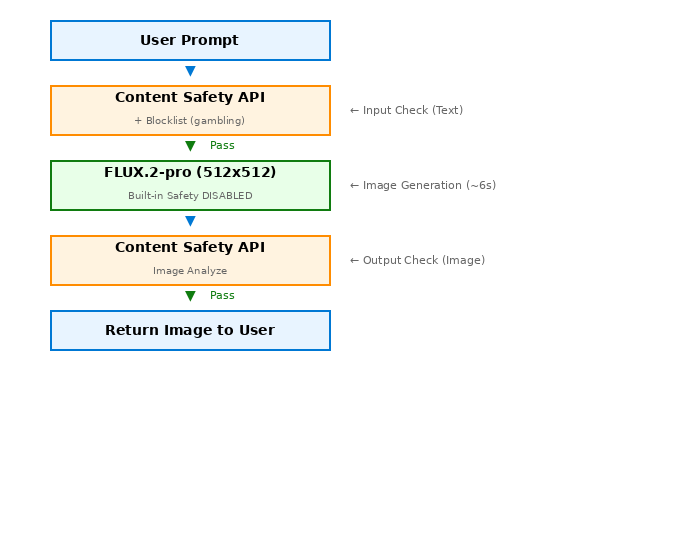
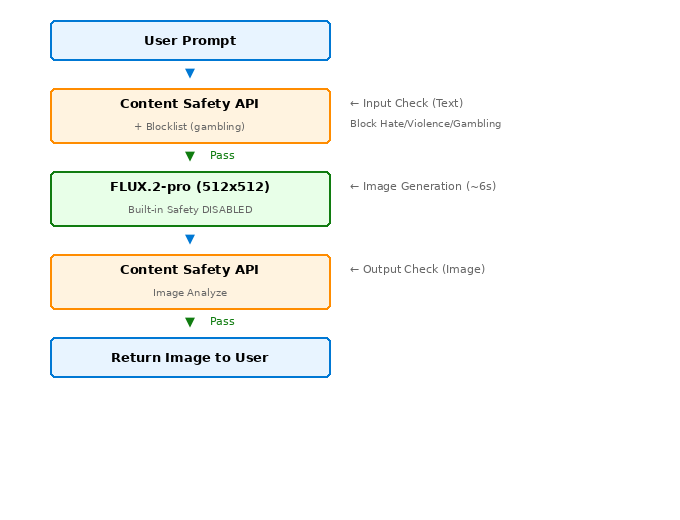
Commit

Changed region(s): [[0.0618, 0.0308, 0.7412, 0.7385], [0.525, 0.3077, 0.7412, 0.3692]]

diff --git a/Agents/Content-Safety-with-Flux-Image-Generation/README.md b/Agents/Content-Safety-with-Flux-Image-Generation/README.md
@@ -12,57 +12,7 @@ This project demonstrates how to:
 
 ### Architecture
 
-<table style="margin: 20px 0; border-collapse: collapse;">
-    <tr>
-        <td style="text-align: center; padding: 10px; background: #e8f4ff; border: 2px solid #0078D4; border-radius: 5px;">
-            <strong>User Prompt</strong>
-        </td>
-        <td style="padding: 0 15px;"></td>
-    </tr>
-    <tr>
-        <td style="text-align: center; font-size: 18px; color: #0078D4;">▼</td>
-        <td></td>
-    </tr>
-    <tr>
-        <td style="text-align: center; padding: 12px 20px; background: #fff3e0; border: 2px solid #FF8C00; border-radius: 5px;">
-            <strong>Content Safety API</strong><br/>
-            <span style="font-size: 10pt;">+ Blocklist (gambling)</span>
-        </td>
-        <td style="padding-left: 15px; color: #666;">← Input Check (Text)<br/><span style="font-size: 10pt;">Block Hate/Violence/Gambling</span></td>
-    </tr>
-    <tr>
-        <td style="text-align: center; font-size: 18px; color: #107C10;">▼ Pass</td>
-        <td></td>
-    </tr>
-    <tr>
-        <td style="text-align: center; padding: 12px 20px; background: #e8ffe8; border: 2px solid #107C10; border-radius: 5px;">
-            <strong>FLUX.2-pro (512x512)</strong><br/>
-            <span style="font-size: 10pt;">Built-in Safety DISABLED</span>
-        </td>
-        <td style="padding-left: 15px; color: #666;">← Image Generation (~6s)</td>
-    </tr>
-    <tr>
-        <td style="text-align: center; font-size: 18px; color: #0078D4;">▼</td>
-        <td></td>
-    </tr>
-    <tr>
-        <td style="text-align: center; padding: 12px 20px; background: #fff3e0; border: 2px solid #FF8C00; border-radius: 5px;">
-            <strong>Content Safety API</strong><br/>
-            <span style="font-size: 10pt;">Image Analyze</span>
-        </td>
-        <td style="padding-left: 15px; color: #666;">← Output Check (Image)</td>
-    </tr>
-    <tr>
-        <td style="text-align: center; font-size: 18px; color: #107C10;">▼ Pass</td>
-        <td></td>
-    </tr>
-    <tr>
-        <td style="text-align: center; padding: 10px; background: #e8f4ff; border: 2px solid #0078D4; border-radius: 5px;">
-            <strong>Return Image to User</strong>
-        </td>
-        <td></td>
-    </tr>
-</table>
+![Architecture](images/architecture.png)
 
 ### Harmful Content Categories
 

diff --git a/Agents/Content-Safety-with-Flux-Image-Generation/README-CN.md b/Agents/Content-Safety-with-Flux-Image-Generation/README-CN.md
@@ -12,57 +12,7 @@
 
 ### 架构
 
-<table style="margin: 20px 0; border-collapse: collapse;">
-    <tr>
-        <td style="text-align: center; padding: 10px; background: #e8f4ff; border: 2px solid #0078D4; border-radius: 5px;">
-            <strong>用户 Prompt</strong>
-        </td>
-        <td style="padding: 0 15px;"></td>
-    </tr>
-    <tr>
-        <td style="text-align: center; font-size: 18px; color: #0078D4;">▼</td>
-        <td></td>
-    </tr>
-    <tr>
-        <td style="text-align: center; padding: 12px 20px; background: #fff3e0; border: 2px solid #FF8C00; border-radius: 5px;">
-            <strong>Content Safety API</strong><br/>
-            <span style="font-size: 10pt;">+ Blocklist (赌博)</span>
-        </td>
-        <td style="padding-left: 15px; color: #666;">← 输入检测（文本）<br/><span style="font-size: 10pt;">阻止仇恨/暴力/赌博</span></td>
-    </tr>
-    <tr>
-        <td style="text-align: center; font-size: 18px; color: #107C10;">▼ 通过</td>
-        <td></td>
-    </tr>
-    <tr>
-        <td style="text-align: center; padding: 12px 20px; background: #e8ffe8; border: 2px solid #107C10; border-radius: 5px;">
-            <strong>FLUX.2-pro (512x512)</strong><br/>
-            <span style="font-size: 10pt;">内置安全已关闭</span>
-        </td>
-        <td style="padding-left: 15px; color: #666;">← 图像生成（约6秒）</td>
-    </tr>
-    <tr>
-        <td style="text-align: center; font-size: 18px; color: #0078D4;">▼</td>
-        <td></td>
-    </tr>
-    <tr>
-        <td style="text-align: center; padding: 12px 20px; background: #fff3e0; border: 2px solid #FF8C00; border-radius: 5px;">
-            <strong>Content Safety API</strong><br/>
-            <span style="font-size: 10pt;">图像分析</span>
-        </td>
-        <td style="padding-left: 15px; color: #666;">← 输出检测（图像）</td>
-    </tr>
-    <tr>
-        <td style="text-align: center; font-size: 18px; color: #107C10;">▼ 通过</td>
-        <td></td>
-    </tr>
-    <tr>
-        <td style="text-align: center; padding: 10px; background: #e8f4ff; border: 2px solid #0078D4; border-radius: 5px;">
-            <strong>返回图像给用户</strong>
-        </td>
-        <td></td>
-    </tr>
-</table>
+![架构](images/architecture.png)
 
 ### 有害内容类别
 
